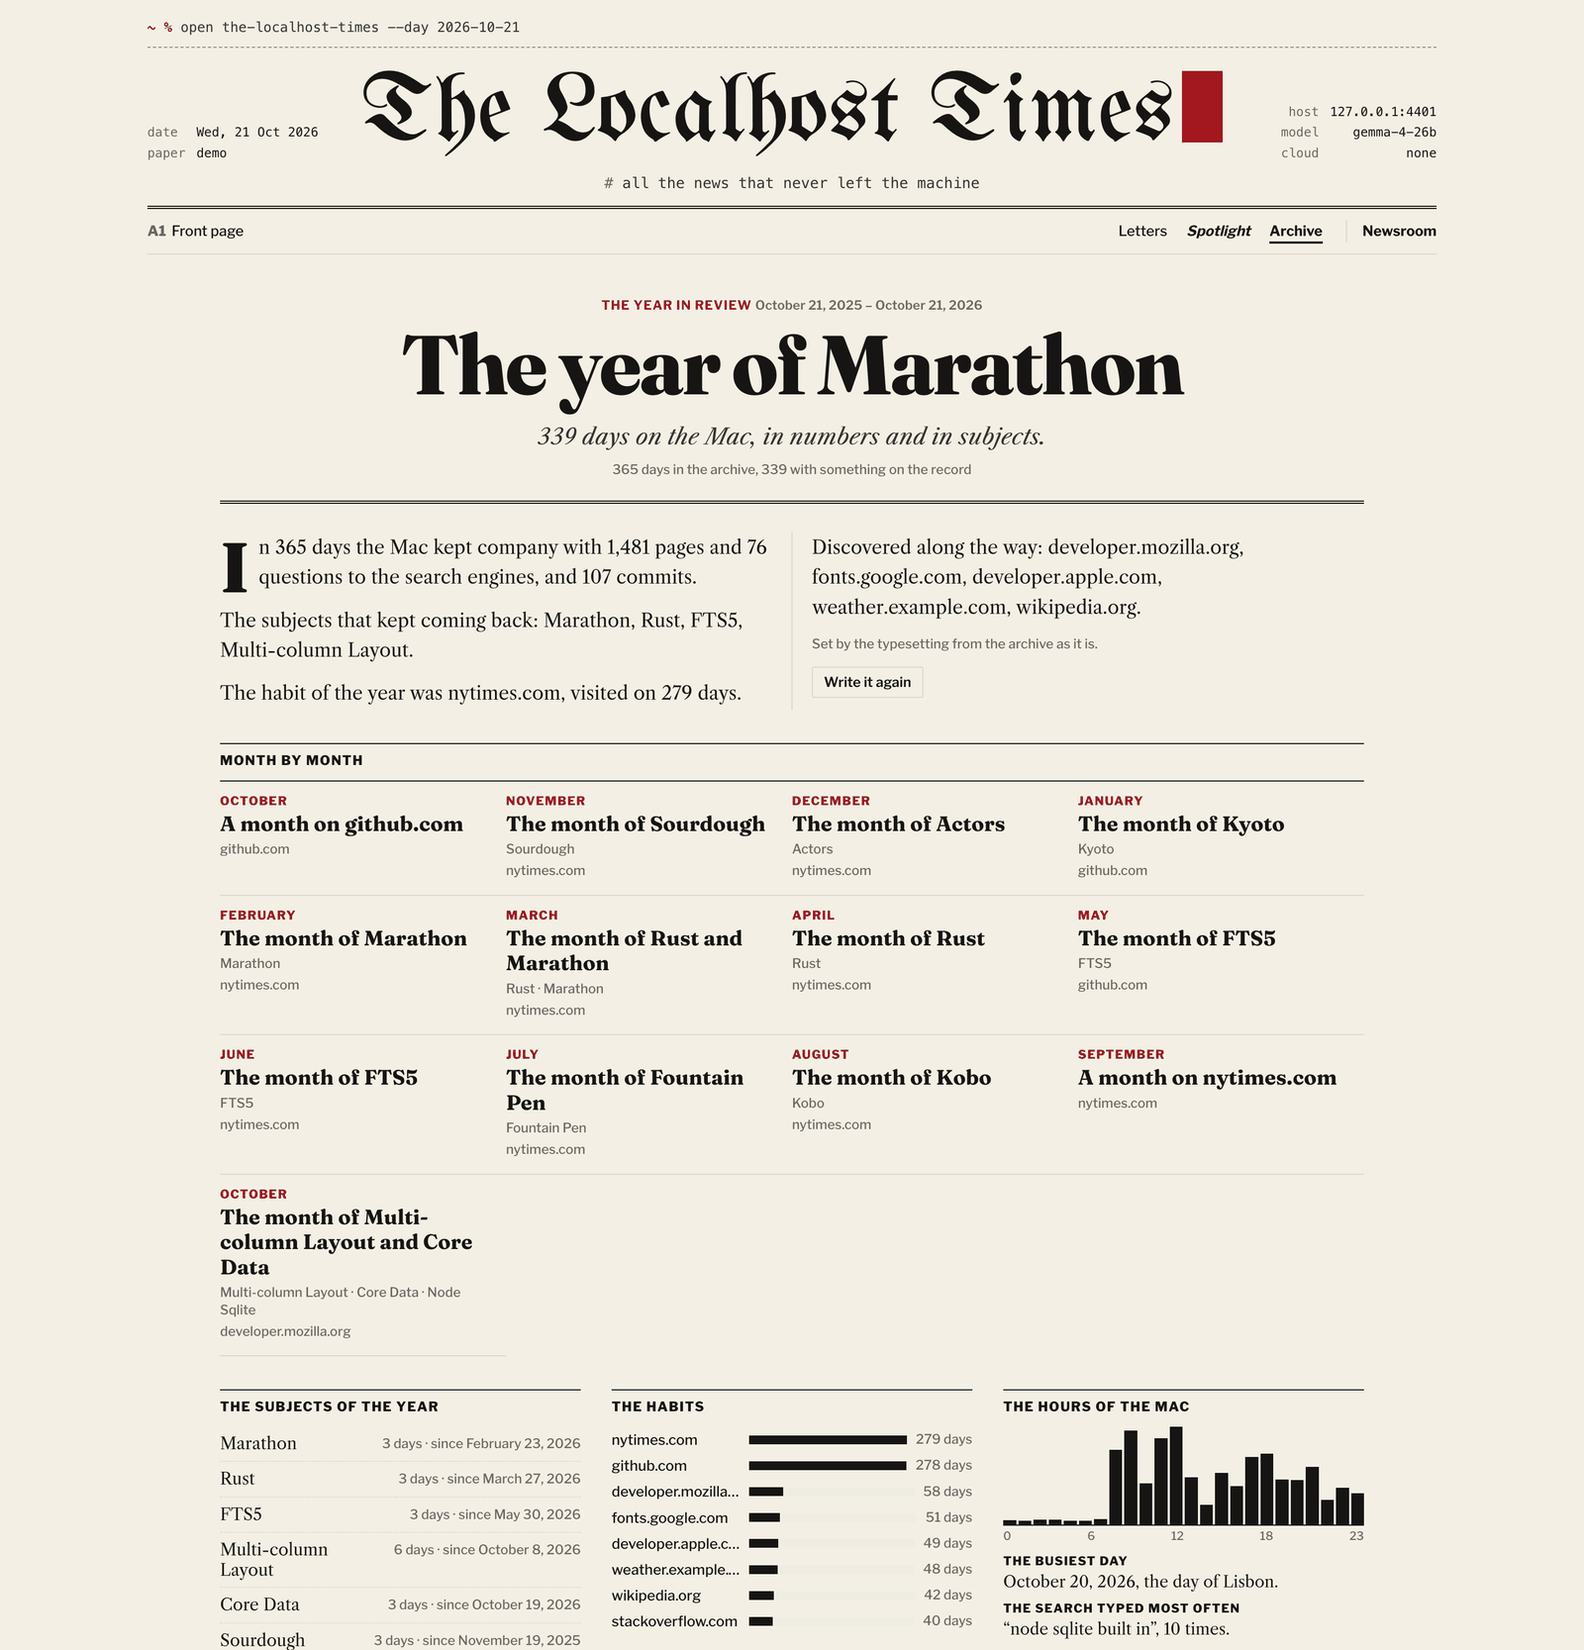
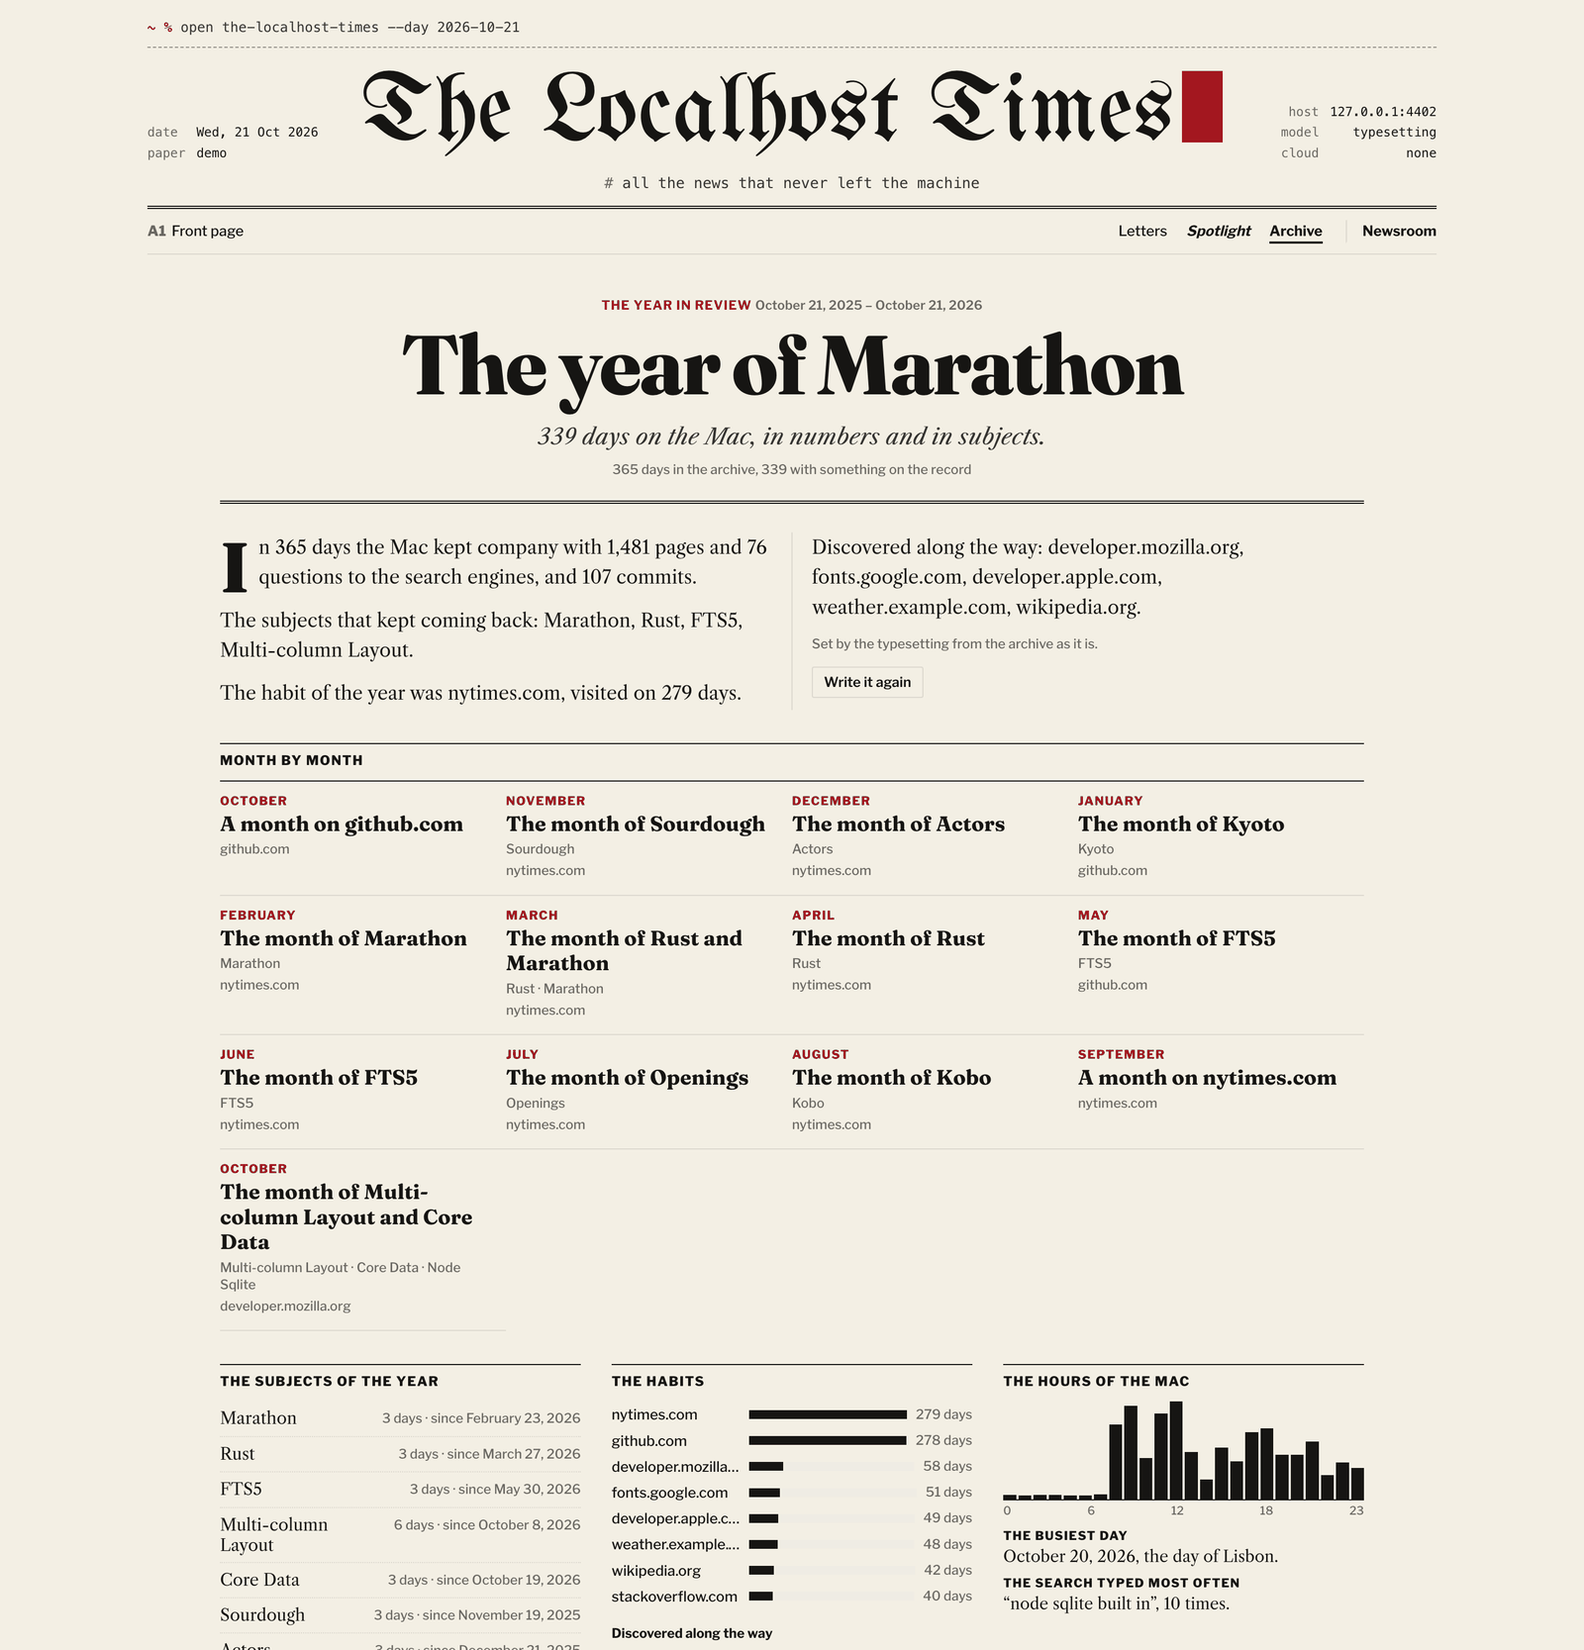
Examples that belong to nobody: a trip to Lisbon, not the owner's own interests
The README, the Remember box, the code's comments, the tests and the demo year spoke of
subjects taken from a real archive; they now use the demo's trip to Lisbon, travel
guides and chess openings. The Year in Review screenshot is taken again.

diff --git a/server/newsroom/subjects.js b/server/newsroom/subjects.js
@@ -1,6 +1,6 @@
 /**
  * Subjects: what the owner was really busy with, across apps. A site is where something
- * happened; a subject is what it was about. Umberto Eco searched on Google, watched on YouTube,
+ * happened; a subject is what it was about. A trip to Lisbon searched on Google, watched on YouTube,
  * asked of ChatGPT and read in Books is one story, not four: the subject finds the events that
  * speak of it (search queries, page titles, books, episodes, notes, mail subjects) and gathers
  * them, whatever app they came from.
@@ -43,7 +43,7 @@ forecast weather meteo tempo complete completa completo social media digital net
 
 const fold = (s) => String(s).normalize('NFD').replace(/[̀-ͯ]/g, '').toLowerCase();
 
-/** One word for its singular and plural (stilografica, stilografiche; pen, pens). */
+/** One word for its singular and plural (guida, guide; ticket, tickets). */
 const stem = (f) => (f.length >= 6 ? f.replace(/h[ei]$/, '').replace(/(es|[aeios])$/, '') : f.replace(/s$/, ''));
 
 /** The words of a text, as they were written and folded, without the noise. */
@@ -55,7 +55,7 @@ function tokens(text) {
     out.push({ raw, f, s: stem(f), stop: STOP.has(f) || f.length < 3 || /^\d+$/.test(f) });
   }
   // a capital in the middle of a title is a name (a person, a book, a product), unless the title
-  // capitalises every word, as English headlines do; "DeepSeek" is a name anywhere
+  // capitalises every word, as English headlines do; "JavaScript" is a name anywhere
   const words = out.filter((t) => !t.stop);
   const titleCase = words.length >= 3 && words.filter((t) => /^\p{Lu}/u.test(t.raw)).length >= words.length * 0.6;
   out.forEach((t, i) => { t.proper = (!titleCase && i > 0 && /^\p{Lu}\p{Ll}/u.test(t.raw)) || /\p{Ll}\p{Lu}/u.test(t.raw); });
@@ -83,7 +83,7 @@ export function textOf(e) {
   return String(e.title || '').trim() || null;
 }
 
-/** The terms of a text: the words that matter, and the pairs of them ("umberto eco"). */
+/** The terms of a text: the words that matter, and the pairs of them ("pastel de nata"). */
 function termsOf(text, banned) {
   const tk = tokens(text);
   const out = new Map(); // stemmed term → { raw: as written, phrase: as folded, proper }
@@ -150,11 +150,11 @@ export function findSubjects(events, { max = 3 } = {}) {
     }
   }
   // a single word is a subject if it reads as a name in the titles, or the owner typed it in a search twice;
-  // a pair of words ("fountain pen", "intelligenza artificiale") is specific enough on its own
+  // a pair of words ("travel guide", "intelligenza artificiale") is specific enough on its own
   // (or it was searched once and then found in three places or more)
   const specific = (x) => x.term.includes(' ') || x.proper >= x.events.size * 0.4 || x.searched >= 2 || (x.searched && x.places.size >= 3) || x.places.size >= 4;
   let cands = [...byTerm.values()].filter((x) => x.places.size >= 2 && x.events.size >= 3 && x.titles.size >= 2 && specific(x));
-  // a pair that covers most of its words' events is the better name ("umberto eco" over "umberto")
+  // a pair that covers most of its words' events is the better name ("travel guide" over "travel")
   const pairs = cands.filter((x) => x.term.includes(' '));
   cands = cands.filter((x) => {
     if (x.term.includes(' ')) {
@@ -169,7 +169,7 @@ export function findSubjects(events, { max = 3 } = {}) {
   // terms that share most of their events are one subject ("eco" and "nome della rosa" in the same titles)
   const out = [];
   for (const x of cands) {
-    // the same words joined or apart ("fountainpen", "fountain pen") are one subject too
+    // the same words joined or apart ("ebook", "e book") are one subject too
     const same = out.find((s) => overlap(s.events, x.events) >= 0.6 || s.compact === x.term.replace(/\s+/g, ''));
     if (same) {
       for (const e of x.events) same.events.add(e);

diff --git a/test/subjects.test.js b/test/subjects.test.js
@@ -13,22 +13,22 @@ const visit = (min, host, title) => ev('safari', 'visit', min, title, { host });
 function day() {
   n = 0;
   return [
-    ev('safari', 'search', 0, 'umberto eco interviste', { host: 'google.com', engine: 'Google' }),
-    visit(2, 'youtube.com', 'Umberto Eco: la bustina di Minerva - YouTube'),
-    visit(9, 'youtube.com', 'Umberto Eco sul nome della rosa (1986) - YouTube'),
+    ev('safari', 'search', 0, 'lisbon what to see', { host: 'google.com', engine: 'Google' }),
+    visit(2, 'youtube.com', 'Lisbon in three days: tram 28 and Alfama - YouTube'),
+    visit(9, 'youtube.com', 'A morning walk through Lisbon (4K) - YouTube'),
     visit(20, 'youtube.com', 'Gatti che suonano il piano - YouTube'),
     visit(21, 'youtube.com', 'Il miglior gol del 1990 - YouTube'),
     visit(22, 'youtube.com', 'Ricetta del risotto alla zucca - YouTube'),
-    visit(30, 'chatgpt.com', 'Domande su Umberto Eco'),
-    ev('books', 'opened', 40, 'Il nome della rosa', { author: 'Umberto Eco', progress: 0.43 }),
-    ev('safari', 'search', 50, 'umberto eco biografia', { host: 'google.com', engine: 'Google' }),
+    visit(30, 'chatgpt.com', 'Questions about Lisbon'),
+    ev('books', 'opened', 40, 'Lisbon, a walking guide', { author: 'Ana Sousa', progress: 0.43 }),
+    ev('safari', 'search', 50, 'lisbon pastel de nata', { host: 'google.com', engine: 'Google' }),
     visit(55, 'github.com', 'vitejs/vite: Next generation frontend tooling'),
   ];
 }
 
 test('subjects: one subject across the searches, a site, an assistant and a book', () => {
   const [s] = findSubjects(day());
-  assert.equal(s.label, 'Umberto Eco');
+  assert.equal(s.label, 'Lisbon');
   assert.equal(s.events.length, 6);
   assert.deepEqual([...s.places.keys()].sort(), ['books', 'chatgpt.com', 'search', 'youtube.com']);
 });
@@ -44,11 +44,11 @@ test('subjects: the brand of a site, and the words every title of a site carries
 test('subjects: a subject is one story, and its events leave the stories of the sites', () => {
   const stories = buildStories(day());
   const subject = stories.find((s) => s.kind === 'subject');
-  assert.equal(subject.id, 'subject:umberto-eco');
-  assert.equal(subject.topic, 'Umberto Eco');
+  assert.equal(subject.id, 'subject:lisbon');
+  assert.equal(subject.topic, 'Lisbon');
   // what YouTube still has to tell is the rest: the cats, the goal, the risotto
   const yt = stories.find((s) => s.kind === 'site' && s.topic === 'youtube.com');
-  assert.ok(yt && yt.events.every((e) => !/Eco/.test(e.title)));
+  assert.ok(yt && yt.events.every((e) => !/Lisbon/.test(e.title)));
   // the subject, not YouTube, leads
   assert.equal(stories[0].kind, 'subject');
 });
@@ -58,11 +58,11 @@ test('subjects: the fact sheet tells the subject and where it went; the typesett
     setLang(l);
     const subject = buildStories(day()).find((s) => s.kind === 'subject');
     const facts = factSheet(subject);
-    assert.match(facts, /Umberto Eco/);
+    assert.match(facts, /Lisbon/);
     assert.match(facts, l === 'en' ? /4 different places/ : /4 posti diversi/);
-    assert.match(facts, /chatgpt\.com: [“«]Domande su Umberto Eco/);
+    assert.match(facts, /chatgpt\.com: [“«]Questions about Lisbon/);
     const a = fallbackArticle(subject);
-    assert.ok(a.headline.includes('Umberto Eco'), a.headline);
+    assert.ok(a.headline.includes('Lisbon'), a.headline);
     assert.ok(a.body.length >= 2);
   }
   setLang('en');

diff --git a/test/memory.test.js b/test/memory.test.js
@@ -74,8 +74,8 @@ test('recall: the time of a question, in both languages', () => {
   const march = whenOf('a marzo', now);
   assert.equal(new Date(march.from).getMonth(), 2);
   assert.equal(whenOf('that article about pens', now), null);
-  assert.equal(keywordsOf("Cos'era quell'articolo sulle stilografiche che ho letto lunedì?"), 'stilografiche');
-  assert.equal(keywordsOf('what was that video about umberto eco I watched on Saturday'), 'umberto eco');
+  assert.equal(keywordsOf("Cos'era quell'articolo sui tram di Lisbona che ho letto lunedì?"), 'tram lisbona');
+  assert.equal(keywordsOf('what was that video about lisbon trams I watched on Saturday'), 'lisbon trams');
   assert.ok(isCounting('quante volte sono stato su YouTube?'));
   assert.ok(!isCounting('quel video su YouTube'));
 });
@@ -87,21 +87,21 @@ test('recall: the pages come back one per thing, with their links, the kind of t
     const now = Date.now();
     const v = (id, ts, host, title, url) => ({ id, source: 'safari', kind: 'visit', ts, title, detail: null, url, meta: { host } });
     store.insertEvents([
-      v('1', now - 2 * DAY, 'youtube.com', 'Umberto Eco on The Name of the Rose - YouTube', 'https://youtube.com/watch?v=1'),
-      v('2', now - 2 * DAY + 60e3, 'youtube.com', 'Umberto Eco on The Name of the Rose - YouTube', 'https://youtube.com/watch?v=1'),
-      v('3', now - 2 * DAY + 120e3, 'repubblica.it', 'Umberto Eco, dieci anni dopo', 'https://repubblica.it/eco'),
-      { id: '4', source: 'books', kind: 'opened', ts: now - DAY, title: 'The Name of the Rose', detail: 'Umberto Eco', url: null, meta: { author: 'Umberto Eco' } },
+      v('1', now - 2 * DAY, 'youtube.com', 'Riding tram 28 through Lisbon - YouTube', 'https://youtube.com/watch?v=1'),
+      v('2', now - 2 * DAY + 60e3, 'youtube.com', 'Riding tram 28 through Lisbon - YouTube', 'https://youtube.com/watch?v=1'),
+      v('3', now - 2 * DAY + 120e3, 'timeout.com', 'Lisbon, the essential guide', 'https://timeout.com/lisbon'),
+      { id: '4', source: 'books', kind: 'opened', ts: now - DAY, title: 'A walking guide', detail: 'Lisbon Press', url: null, meta: { author: 'Lisbon Press' } },
     ]);
-    const r = await recall(store, config, 'that video about Umberto Eco', { llm: false });
+    const r = await recall(store, config, 'that video about Lisbon', { llm: false });
     assert.equal(r.mode, 'recall');
     assert.equal(r.results.length, 1);
     assert.equal(r.results[0].url, 'https://youtube.com/watch?v=1');
     assert.equal(r.results[0].times, 2);
-    const all = await recall(store, config, "Umberto Eco", { llm: false });
+    // the guide too: its publisher is in the archive
+    const all = await recall(store, config, "Lisbon", { llm: false });
     assert.equal(all.results.length, 3);
-    // the book by Eco too: its author is in the archive
     const book = await recall(store, config, 'the book I was reading', { llm: false });
-    assert.deepEqual(book.results.map((x) => x.title), ['The Name of the Rose']);
+    assert.deepEqual(book.results.map((x) => x.title), ['A walking guide']);
   } finally {
     cleanup();
   }

diff --git a/server/demo.js b/server/demo.js
@@ -322,7 +322,7 @@ const YEAR = {
     ['rust ownership', 'Understanding Ownership – The Rust Programming Language', 'doc.rust-lang.org', 'Rust ownership explained – Reddit', 'reddit.com', ['books', 'Programming Rust', 'Jim Blandy']],
     ['film photography portra', 'Kodak Portra 400 review – Kosmo Foto', 'kosmofoto.com', 'Shooting film in 2026 – PetaPixel', 'petapixel.com', null],
     ['sqlite fts5', 'SQLite FTS5 Extension', 'sqlite.org', 'Full-text search with SQLite FTS5 – Simon Willison', 'simonwillison.net', null],
-    ['fountain pen ink', 'Best fountain pen inks of the year – Goulet Pens', 'gouletpens.com', 'Fountain pens for beginners – r/fountainpens', 'reddit.com', ['podcasts', 'The Pen Addict', 'Inks of the summer']],
+    ['chess openings', 'The best chess openings for beginners – Chess.com', 'chess.com', 'The Sicilian Defence explained – Lichess', 'lichess.org', ['podcasts', 'Perpetual Chess', 'Openings, slowly']],
     ['kobo libra colour', 'Kobo Libra Colour review – The Verge', 'theverge.com', 'Kobo vs Kindle: which e-reader – Wired', 'wired.com', null],
   ],
   it: [
@@ -333,7 +333,7 @@ const YEAR = {
     ['rust ownership', 'Understanding Ownership – The Rust Programming Language', 'doc.rust-lang.org', 'Rust ownership explained – Reddit', 'reddit.com', ['books', 'Programming Rust', 'Jim Blandy']],
     ['pellicola portra', 'Kodak Portra 400: la prova – Fotografia.it', 'fotografia.it', 'Fotografare a pellicola nel 2026 – PetaPixel', 'petapixel.com', null],
     ['sqlite fts5', 'SQLite FTS5 Extension', 'sqlite.org', 'Full-text search with SQLite FTS5 – Simon Willison', 'simonwillison.net', null],
-    ['inchiostro stilografica', 'I migliori inchiostri per stilografica – Stilografica Milano', 'lastilograficamilano.it', 'Stilografiche per principianti – r/fountainpens', 'reddit.com', ['podcasts', 'The Pen Addict', 'Inks of the summer']],
+    ['aperture scacchi', 'Le migliori aperture per principianti – Chess.com', 'chess.com', 'La difesa siciliana spiegata – Lichess', 'lichess.org', ['podcasts', 'Scacchi in poltrona', 'Le aperture, con calma']],
     ['kobo libra colour', 'Kobo Libra Colour: la prova – Il Post', 'ilpost.it', 'Kobo o Kindle: quale e-reader – Wired', 'wired.it', null],
   ],
 };

diff --git a/web/src/components/ArchivePage.jsx b/web/src/components/ArchivePage.jsx
@@ -5,7 +5,7 @@ import { tr } from '../i18n.js';
 const T = tr({
   en: {
     title: 'The Archive', sub: 'Everything the paper printed, and every signal it read.',
-    askPh: 'What was that article about fountain pens I read on Tuesday?', ask: 'Remember', asking: 'Looking through the archive…',
+    askPh: 'What was that article about the trams in Lisbon I read on Tuesday?', ask: 'Remember', asking: 'Looking through the archive…',
     remember: 'Remember', rememberSub: 'Ask for a page, a video, a search, a book or a command the way you remember it: roughly, with a day if you have one. “How many times…” questions work too.',
     examples: ['that video on Saturday evening', 'the book I was reading', 'what did I search on Thursday afternoon'], visits: (n) => `${n} times`, firstLast: 'from', to: 'to', noRecall: 'Nothing like that in the archive. Try other words, or another day.',
     searchPh: 'Search articles and signals', all: 'All', articles: 'Articles', signals: 'Signals', evenings: 'Editorials',
@@ -18,7 +18,7 @@ const T = tr({
   },
   it: {
     title: 'L\'emeroteca', sub: 'Tutto quello che il giornale ha stampato, e ogni segnale che ha letto.',
-    askPh: 'Cos\'era quell\'articolo sulle stilografiche che ho letto martedì?', ask: 'Ricorda', asking: 'Cerco nell\'archivio…',
+    askPh: 'Cos\'era quell\'articolo sui tram di Lisbona che ho letto martedì?', ask: 'Ricorda', asking: 'Cerco nell\'archivio…',
     remember: 'Ricorda', rememberSub: 'Chiedi una pagina, un video, una ricerca, un libro o un comando come te lo ricordi: a grandi linee, con il giorno se ce l\'hai. Funzionano anche le domande «quante volte…».',
     examples: ['quel video di sabato sera', 'il libro che leggevo', 'cosa ho cercato giovedì pomeriggio'], visits: (n) => `${n} volte`, firstLast: 'dal', to: 'al', noRecall: 'Niente del genere in archivio. Prova altre parole, o un altro giorno.',
     searchPh: 'Cerca negli articoli e nei segnali', all: 'Tutto', articles: 'Articoli', signals: 'Segnali', evenings: 'Editoriali',

diff --git a/test/interni.test.js b/test/interni.test.js
@@ -89,12 +89,12 @@ test('strip: lanes where something happened, the subjects pinned where they were
   const ev = (source, h, meta = {}, kind = 'visit') => ({ source, kind, ts: at(h), meta });
   const events = [ev('safari', 1, { host: 'nytimes.com' }), ev('safari', 1.05, { host: 'nytimes.com' }), ev('git', 4, {}, 'commit'), ev('safari', 9, { host: 'youtube.com' }),
     ev('power', 17, {}, 'sleep'), ev('power', 23, {}, 'wake')];
-  const articles = [{ id: 'subject:eco', kind: 'subject', topic: 'Umberto Eco', first: at(0.5), sources: [{ ts: at(0.5) }, { ts: at(6) }, { ts: at(7) }] }];
+  const articles = [{ id: 'subject:lisbon', kind: 'subject', topic: 'Lisbon', first: at(0.5), sources: [{ ts: at(0.5) }, { ts: at(6) }, { ts: at(7) }] }];
   const s = dayStrip(events, articles, from, to);
   assert.equal(s.lanes.world.length, 1);
   assert.equal(s.lanes.home.length, 1);
   assert.equal(s.lanes.culture.length, 1, 'YouTube is culture');
   assert.deepEqual(s.sleep, [[0.708, 0.958]]);
-  assert.equal(s.labels[0].text, 'Umberto Eco');
+  assert.equal(s.labels[0].text, 'Lisbon');
   assert.equal(s.labels[0].at, 0.25);
 });

diff --git a/README.md b/README.md
@@ -34,9 +34,9 @@ On the first start the paper reads the past your Mac already keeps (a year of Sa
 ## What's in it
 
 - **Home Affairs (Interni), your projects.** Choose the folder of your repositories in the Settings: the paper reads them (never writes) and every morning tells what you built, in your own commit messages, where in the project the work went, what was born, which dependencies arrived; and keeps a board of how every project stands: work not committed and since when, commits not pushed, projects gone quiet. Each project has its own page.
-- **What you were busy with, not where.** The stories are subjects: Umberto Eco searched on Google, watched on YouTube, asked of ChatGPT and read in Books is one piece, followed from day to day, not four entries in a log.
+- **What you were busy with, not where.** The stories are subjects: a trip searched on Google, booked by mail, read about on three travel sites and noted in Notes is one piece, followed from day to day, not four entries in a log.
 - **The Year in Review:** the subjects of every month, the habits and the discoveries, the hours the Mac kept, the books, the shows, the repositories. And on the front page, *a year ago today*.
-- **A memory, without screenshots.** *“What was that article about fountain pens I read on Tuesday?”*: the archive answers with the page itself, and its link. From the paper, the menu bar or `npm run recall`.
+- **A memory, without screenshots.** *“What was that article about the trams in Lisbon I read on Tuesday?”*: the archive answers with the page itself, and its link. From the paper, the menu bar or `npm run recall`.
 - **The standup, written by itself:** yesterday's commits, pull requests, pushes, tests and meetings, ready to paste. One click in the menu bar, or `npm run standup -- --copy`.
 - **A front page laid out like a paper:** the day in a strip at the top, a lead with its engraving, the pages numbered by section (A1, A2…), *The Brief*, a New Yorker-style cartoon, *in this issue*, the website market, the records the day broke, and **Spotlight**, the patterns across weeks you may not have noticed.
 - **Every morning:** a notification with the lead headline, a one-minute radio bulletin read by your Mac's own voice, the RSS feed, the headline in the menu bar.
